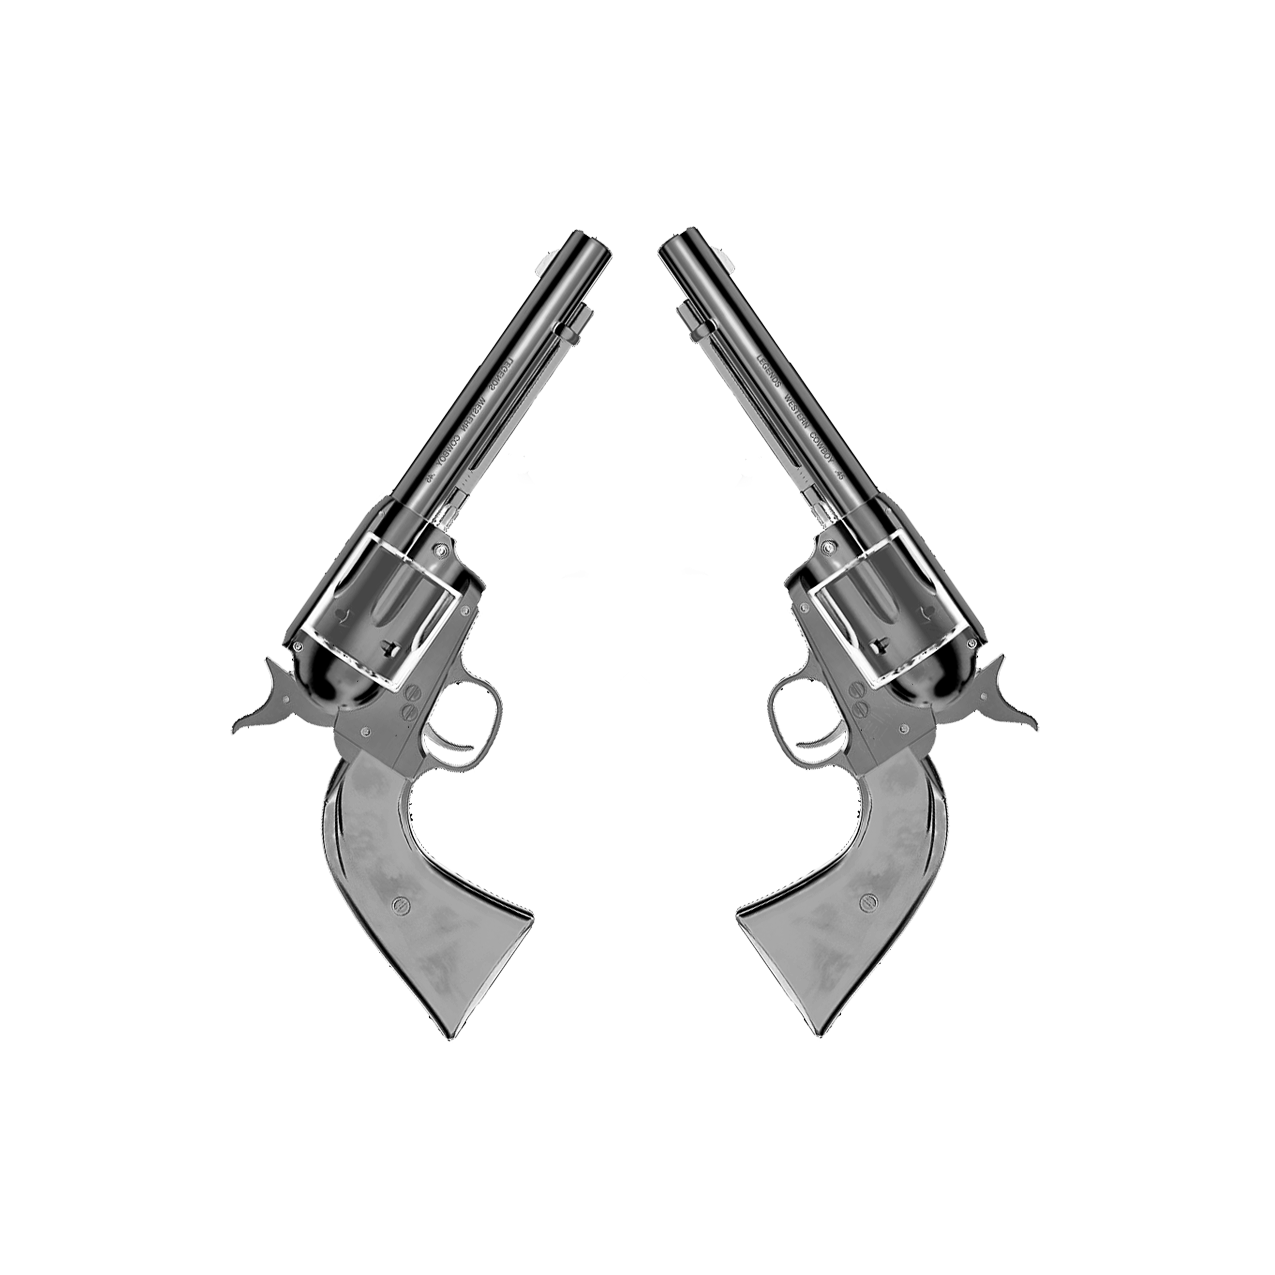
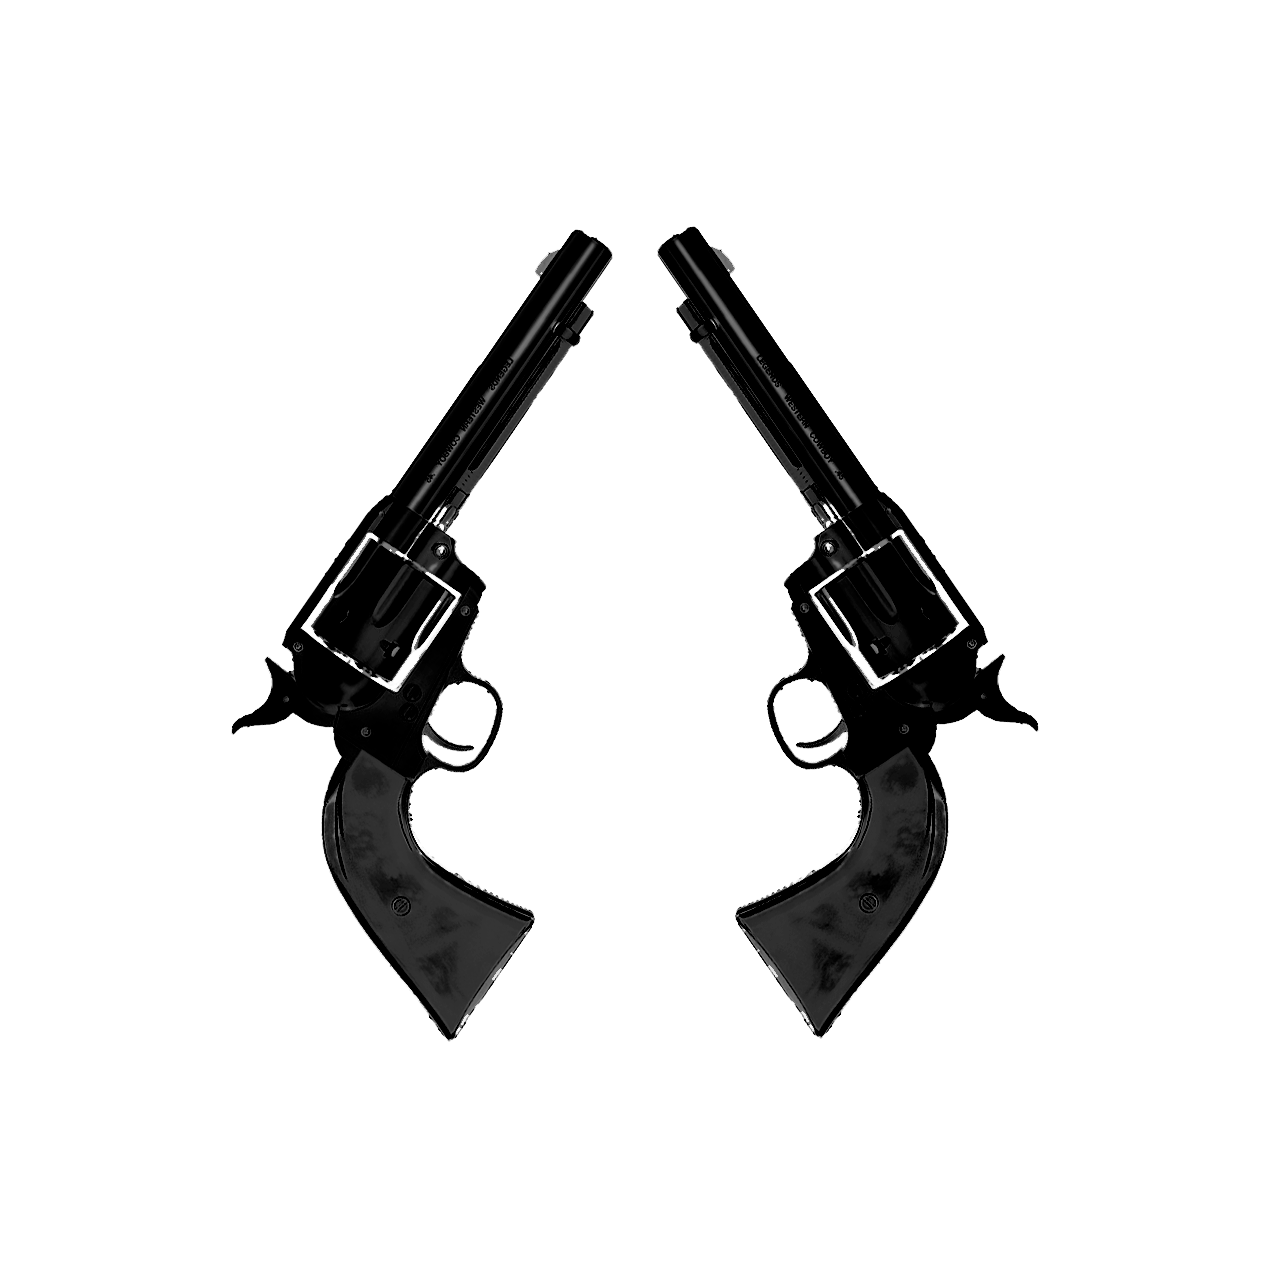
added local storage and fixed bleder image

Changed region(s): [[0.1835, 0.1835, 0.4894, 0.8259], [0.52, 0.1835, 0.8259, 0.8259], [0.5812, 0.5506, 0.6118, 0.5812]]

diff --git a/main.js b/main.js
@@ -361,7 +361,7 @@ const questionsArr = [
   ],
 ];
 
-const ranking = [];
+let ranking = [];
 
 let correctAnswer,
   wrongAnswer,
@@ -431,12 +431,15 @@ const reset = () => {
 
 //Guardamos los resultados en local storage
 const saveResults = () => {
+  let localSavedRanking = JSON.parse(localStorage.getItem("ranking"))
+  if (localSavedRanking !== null) ranking = localSavedRanking;
   ranking.push({ userName: userName, points: score });
   const orderRanking = ranking.sort((a, b) => b.points - a.points);
   const showRankingOrdered = orderRanking.reduce((acc, next) => {
     return `${acc}${next.userName}: ${next.points} Puntos<br><br>`;
-  }, `Ranking <br><br><br>`);
-  ranking_text.innerHTML = showRankingOrdered;
+  }, `Ranking <br><br><br>`)
+  ranking_text.innerHTML = showRankingOrdered;    
+  localStorage.setItem("ranking",JSON.stringify(ranking))
 };
 
 //Visualizamos los resultaso

diff --git a/style.css b/style.css
@@ -190,7 +190,7 @@ body {
   position: absolute;
   width: 100%;
   height: 100%;
-  background-image: url("./IMG/pistolas-III.png");
+  background-image: url("./IMG/pistolas.png");
   background-position: center;
   background-repeat: no-repeat;
   background-size: contain;
